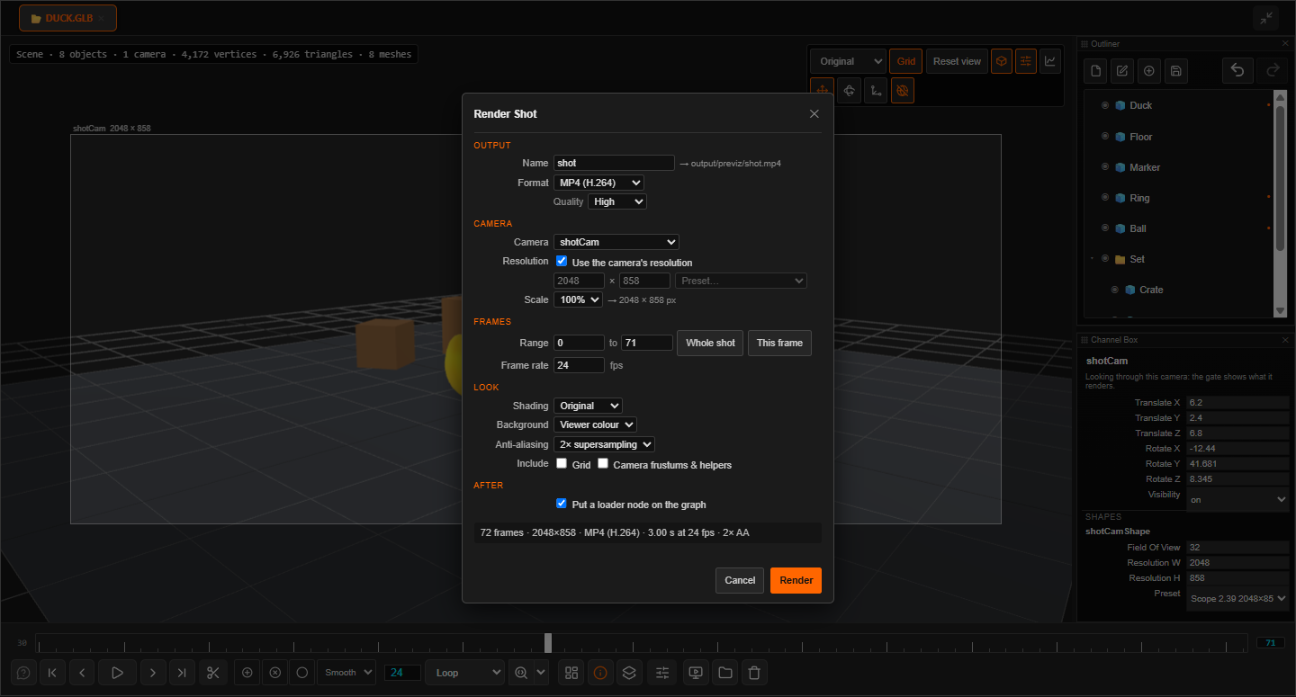
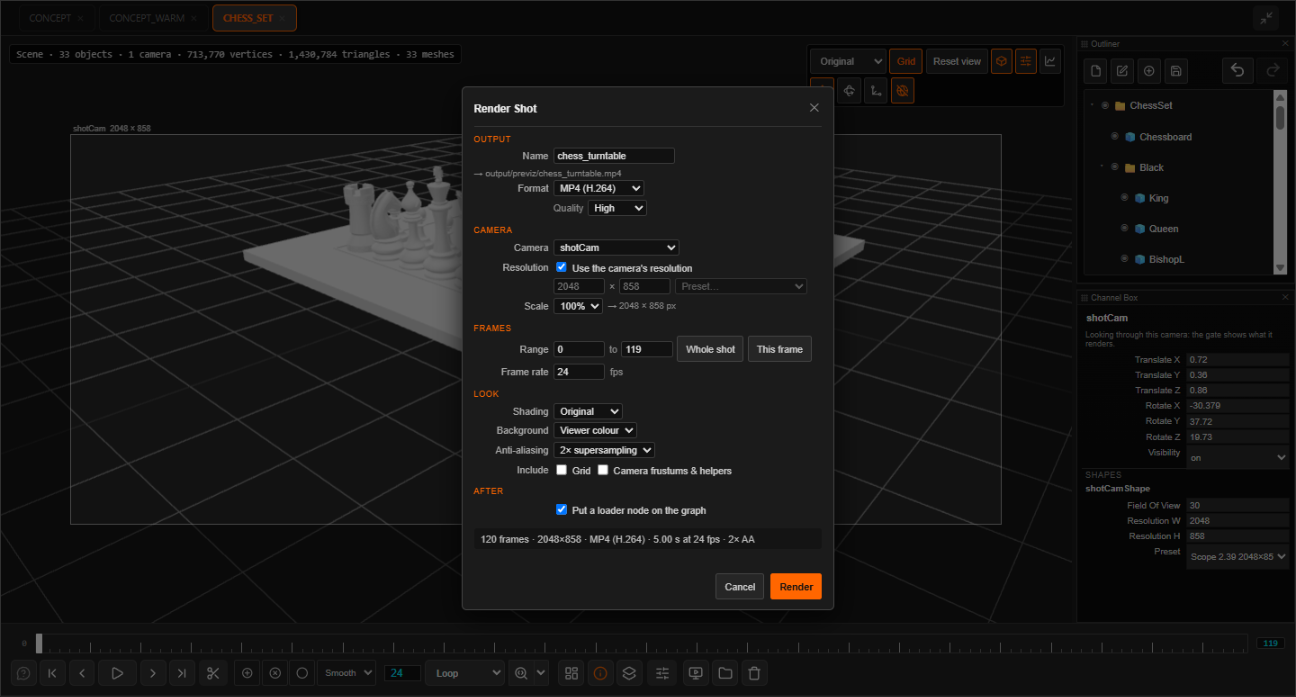
Docs: screenshots of the 2D canvas and of a USD stage, and two fixes
Screenshots (taken in the isolated docs page, as before):
- the 2D canvas with a picture, its history of takes, the exposure and
  channel bar — now the README's and the docs index's opening image;
- a wipe between two versions of a frame, and the red channel on its own,
  in the README and on the comparison and channels pages;
- the Open Chess Set (CC BY 4.0, Academy Software Foundation) imported
  from its USD stage, with the Outliner and Channel Box beside it, in the
  README's 3D section and on the USD import page, credited in both;
- the resolution gate and the render dialog retaken on that set.

Two things the screenshots turned up:

- USD import now expands PointInstancers: one item per instance at the
  transform the instancer gives it (USD's own ComputeInstanceTransforms,
  so the prototype's root transform is included), grouped under the
  instancer, prototypes no longer imported as objects, invisibleIds
  respected. The chess set's pawns are instanced — sixteen of them were
  arriving as two.
- The 3D scene's keyframe ticks shared the timeline's tick strip with the
  Roto tool and were only ever cleared by the 3D code, so they stayed on
  screen over an image tab. Each tool now marks the strip as its own, and
  leaving the 3D view clears only its own ticks.

Claude-Session: https://claude.ai/code/session_015dzGU6n589XpsxVutigK4E

diff --git a/js/bEpicViewer_mixinPreviz.js b/js/bEpicViewer_mixinPreviz.js
@@ -894,7 +894,13 @@ export const PrevizMixin = {
     _previzRenderTicks() {
         const host = this.container && this.container.querySelector("#kf-ticks");
         if (!host) return;
-        if (!this.isPrevizTab()) { host.innerHTML = ""; return; }
+        // The strip is shared with the Roto tool. Off a 3D tab, only ticks
+        // this drew are taken down — Roto's are Roto's to manage.
+        if (!this.isPrevizTab()) {
+            if (host.dataset.owner === "previz") { host.innerHTML = ""; delete host.dataset.owner; }
+            return;
+        }
+        host.dataset.owner = "previz";
         const scene = this.previzScene();
         const item = this.previzSelectedItem();
         const frames = item ? S.keyframeFrames(item) : S.sceneKeyframes(scene);

diff --git a/js/bEpicViewer_mixinModel.js b/js/bEpicViewer_mixinModel.js
@@ -107,6 +107,9 @@ export const ModelMixin = {
         this._modelMode = false;
         this.viewport.classList.remove("model-mode");
         if (this._model3d) this._model3d.hide();
+        // The scene's keyframe ticks sit on the shared timeline strip; an image
+        // tab has none of them, and nothing else would take them down.
+        if (this._previzRenderTicks) this._previzRenderTicks();
         // The previz panel is a docked panel now, so it no longer disappears
         // along with the 3D view — it has to be told the picture has changed.
         if (this._previzRenderPanel) this._previzRenderPanel();

diff --git a/js/bEpicViewer_roto.js b/js/bEpicViewer_roto.js
@@ -329,6 +329,7 @@ export const RotoMixin = {
         const host = this._rotoKfTicksHost();
         if (!host) return;
         host.innerHTML = "";
+        host.dataset.owner = "roto";   // shared with previz's ticks; see _previzRenderTicks
         if (!this._toolState || this._toolState.active !== "roto") return;
         const layer = this._rotoCurLayer();
         const keys = this._rotoCurKeys(layer);

diff --git a/usd_io.py b/usd_io.py
@@ -555,13 +555,19 @@ def _object_prims(stage, root):
     would import as a thousand separate cupboard doors.
     """
     _Gf, _Sdf, Usd, UsdGeom, _Vt = _pxr()
-    chosen, cameras = [], []
+    chosen, cameras, instancers = [], [], []
 
     def visit(prim):
         if not prim.IsValid() or not prim.IsActive():
             return
         if UsdGeom.Camera(prim):
             cameras.append(prim)
+            return
+        # A PointInstancer places its prototypes many times over; the
+        # prototypes under it are templates, not things in the scene, so they
+        # are not visited — import_scene makes one item per instance instead.
+        if prim != root and prim.IsA(UsdGeom.PointInstancer):
+            instancers.append(prim)
             return
         model = Usd.ModelAPI(prim)
         kind = model.GetKind() if model else ""
@@ -586,9 +592,10 @@ def _object_prims(stage, root):
     # A stage whose default prim IS the geometry (a single published asset,
     # rather than a layout) has nothing below the root to choose, so the root
     # itself is the object.
-    if not chosen and not cameras and root.IsValid() and not root.IsPseudoRoot() and _has_geometry(root):
+    if not chosen and not cameras and not instancers and root.IsValid() \
+            and not root.IsPseudoRoot() and _has_geometry(root):
         chosen.append(root)
-    return chosen, cameras
+    return chosen, cameras, instancers
 
 
 def _has_arc(prim):
@@ -669,7 +676,7 @@ def import_scene(path, load_payloads=True):
         return _mark_external(scene)
 
     # Anyone else's stage: take the layout, and the geometry under it.
-    objects, cameras = _object_prims(stage, root)
+    objects, cameras, instancers = _object_prims(stage, root)
     # Every Xform above a chosen prim comes in as a group, so the stage's
     # hierarchy is the outliner's hierarchy and each item keeps the local
     # transform it was authored with.
@@ -713,7 +720,59 @@ def import_scene(path, load_payloads=True):
             if asset:
                 item["src"]["asset"] = asset
         scene["items"].append(item)
+
+    for instancer in instancers:
+        _expand_instancer(instancer, stage, path, layer_dir, ensure_group, scene)
     return _mark_external(scene)
+
+
+def _expand_instancer(instancer, stage, path, layer_dir, ensure_group, scene):
+    """One item per instance of a PointInstancer, grouped under it.
+
+    Each instance draws its prototype's geometry (addressed as stage + the
+    prototype's prim, like any other item) at the transform the instancer gives
+    it — USD's own ComputeInstanceTransformsAtTime, which also folds in the
+    prototype's root transform. The instancer itself becomes the group, so
+    moving it moves the lot, as it does in the stage. Masked-off (invisible)
+    instances are left out; animated instancers come in at their first sample.
+    """
+    Gf, _Sdf, Usd, UsdGeom, _Vt = _pxr()
+    pi = UsdGeom.PointInstancer(instancer)
+    protos = [stage.GetPrimAtPath(t) for t in pi.GetPrototypesRel().GetTargets()]
+    indices = list(pi.GetProtoIndicesAttr().Get() or [])
+    if not protos or not indices:
+        return
+    samples = sorted(pi.GetPositionsAttr().GetTimeSamples() or [])
+    time = Usd.TimeCode(samples[0]) if samples else Usd.TimeCode.Default()
+    matrices = pi.ComputeInstanceTransformsAtTime(time, time)
+    hidden = set(pi.GetInvisibleIdsAttr().Get(time) or [])
+    ids = list(pi.GetIdsAttr().Get(time) or [])
+    group_id = ensure_group(instancer)
+    for i, (proto_index, matrix) in enumerate(zip(indices, matrices)):
+        if (ids[i] if i < len(ids) else i) in hidden:
+            continue
+        if not (0 <= proto_index < len(protos)) or not protos[proto_index].IsValid():
+            continue
+        proto = protos[proto_index]
+        shape = _SHAPE_BY_TYPE.get(proto.GetTypeName())
+        if shape and any(_has_geometry(c) for c in proto.GetAllChildren()):
+            shape = None
+        asset = None if shape else _asset_of(proto, layer_dir)
+        item = _item_from_prim(proto, UsdGeom.Xformable(proto), False, shape, asset, stage)
+        position, rotation, scale = _decompose(Gf.Matrix4d(matrix))
+        item.update({
+            "id": f"usd_{abs(hash(str(instancer.GetPath()) + '#' + str(i))) & 0xffffffff:x}",
+            "name": f"{proto.GetName()}_{i + 1}",
+            "position": position, "rotation": rotation, "scale": scale,
+            "tracks": {},
+            "parent": group_id,
+        })
+        if not shape:
+            item["src"] = {"path": path, "prim": str(proto.GetPath()),
+                           "name": proto.GetName(), "format": "usd"}
+            if asset:
+                item["src"]["asset"] = asset
+        scene["items"].append(item)
 
 
 def _item_from_prim(prim, xformable, is_camera, shape, asset, stage):

diff --git a/README.md b/README.md
@@ -4,7 +4,7 @@ An advanced image viewer panel for [ComfyUI](https://github.com/comfyanonymous/C
 
 ---
 
-![The bEpic viewer: named tabs, the history strip, the exposure bar, the file browser and the timeline](docs/screenshots/viewer_main.png)
+![The bEpic viewer: an image on the canvas, its history of takes on the left, the exposure and channel bar above](docs/screenshots/viewer_2d_canvas.jpg)
 
 ## Core Features
 
@@ -17,6 +17,13 @@ An advanced image viewer panel for [ComfyUI](https://github.com/comfyanonymous/C
 - play image sequences and videos with configurable FPS, and loop a sub-range of the timeline
 - split-screen comparison with a draggable divider — shift-click two tabs or two history items to compare them
 - real-time exposure (−4 EV to +4 EV) and isolation of the **Red**, **Green** or **Blue** channel
+
+<p>
+<img src="docs/screenshots/viewer_2d_compare.jpg" alt="Split comparison between two versions of a frame" width="49%">
+<img src="docs/screenshots/viewer_2d_channels.jpg" alt="The red channel on its own, exposure lifted" width="49%">
+</p>
+
+*Left: a wipe between two tabs. Right: the red channel on its own, +0.7 EV.*
 
 ### Working with the graph
 
@@ -36,7 +43,9 @@ An advanced image viewer panel for [ComfyUI](https://github.com/comfyanonymous/C
 
 ## 3D Models and Previz
 
-![A previz scene in the viewer](docs/screenshots/previz_overview.png)
+![A USD chess set in the 3D viewer, with the Outliner and Channel Box beside it](docs/screenshots/previz_usd_chess.png)
+
+*The chess set is the [Open Chess Set](https://github.com/usd-wg/assets/tree/main/full_assets/OpenChessSet), [CC BY 4.0](https://creativecommons.org/licenses/by/4.0/) by the Academy Software Foundation — imported here straight from its USD stage.*
 
 - view **GLB, glTF, FBX, OBJ, STL, PLY** and **USD** files, and save meshes the way ComfyUI's Save 3D Model does
 - every 3D tab is a **previz scene**: models, primitive shapes, groups and cameras, laid out in a Maya-style **Outliner** (drag to reorder and reparent — items keep their place in the world — double-click to rename) and edited in a **Channel Box**
@@ -50,6 +59,8 @@ An advanced image viewer panel for [ComfyUI](https://github.com/comfyanonymous/C
 <img src="docs/screenshots/previz_resolution_gate.png" alt="Looking through a camera, with its resolution gate" width="49%">
 <img src="docs/screenshots/previz_render_dialog.png" alt="The render dialog" width="49%">
 </p>
+
+*Left: looking through a camera, its 2.39 gate over the shot. Right: the render dialog.*
 
 ---
 

diff --git a/docs/sub/models-3d.md b/docs/sub/models-3d.md
@@ -329,6 +329,10 @@ Give a plain name and the stage lands in `output/3d_scenes`; give a full path en
 
 **+ → Import USD…** builds the scene from a stage — one made here, or one from anywhere else:
 
+![A USD chess set imported into the viewer: the stage's hierarchy in the Outliner, the selected piece's channels beside it](../screenshots/previz_usd_chess.png)
+
+*The chess set is the [Open Chess Set](https://github.com/usd-wg/assets/tree/main/full_assets/OpenChessSet), [CC BY 4.0](https://creativecommons.org/licenses/by/4.0/) by the Academy Software Foundation — imported here straight from its USD stage.*
+
 | In the stage | Becomes |
 |---|---|
 | `UsdGeomCamera` | a previz camera, its focal length read back as a field of view |
@@ -336,6 +340,7 @@ Give a plain name and the stage lands in `output/3d_scenes`; give a full path en
 | A prim marked `component` in the model hierarchy | one item — an asset is a thing you move, not a hundred things |
 | Geometry with no such ancestor | one item of its own |
 | Every `Xform` above one of those | a [group](#groups), so the stage's hierarchy is the outliner's |
+| A `PointInstancer` | one item per instance, at the transform the instancer gives it, grouped under the instancer — so a stage that scatters a prop a hundred times arrives as a hundred items you can move. Instances hidden by `invisibleIds` are left out; an animated instancer comes in at its first sample. |
 | `Cube`, `Sphere`, `Cylinder`, `Cone`, `Plane` | the matching previz shape, with its `displayColor` |
 | Time samples on the transforms | keyframes, with linear easing — which is what USD samples mean |
 | `timeCodesPerSecond`, start and end | the shot's fps and length |

diff --git a/docs/sub/tabs-history.md b/docs/sub/tabs-history.md
@@ -40,6 +40,8 @@ Give each bEpicSendToViewer node a meaningful `tab_name` — for example `vae_de
 
 ![history](../screenshots/screenshot_04.png)
 
+![The history strip beside the canvas: four takes of the same shot](../screenshots/viewer_2d_canvas.jpg)
+
 Every time new images arrive in a tab, they are automatically saved as a snapshot in that tab's **history**. The history strip is the vertical thumbnail column on the left side of the viewport.
 
 

diff --git a/docs/index.md b/docs/index.md
@@ -2,7 +2,7 @@
 
 A professional floating image viewer for ComfyUI — multi-tab, history snapshots, side-by-side comparison, playback timeline, exposure/channel controls, and a live parameter panel.
 
-![bEpic ImageViewer main interface](screenshots/viewer_main.png)
+![bEpic ImageViewer main interface](screenshots/viewer_2d_canvas.jpg)
 
 ---
 

diff --git a/docs/sub/channels-exposure.md b/docs/sub/channels-exposure.md
@@ -5,6 +5,8 @@
 ---
 
 ![Exposure slider and channel selector](../screenshots/screenshot_07.png)
+
+![The red channel on its own, with the exposure lifted](../screenshots/viewer_2d_channels.jpg)
 *The exposure bar centred at the top of the viewport — slider, EV readout, and channel dropdown.*
 
 ## Exposure Control

diff --git a/docs/sub/comparison.md b/docs/sub/comparison.md
@@ -4,7 +4,7 @@
 
 ---
 
-![Vertical split comparison mode](../screenshots/screenshot_02.png)
+![A vertical wipe between two tabs: the original on the left, a warmer grade on the right](../screenshots/viewer_2d_compare.jpg)
 
 ## Starting a Comparison
 
